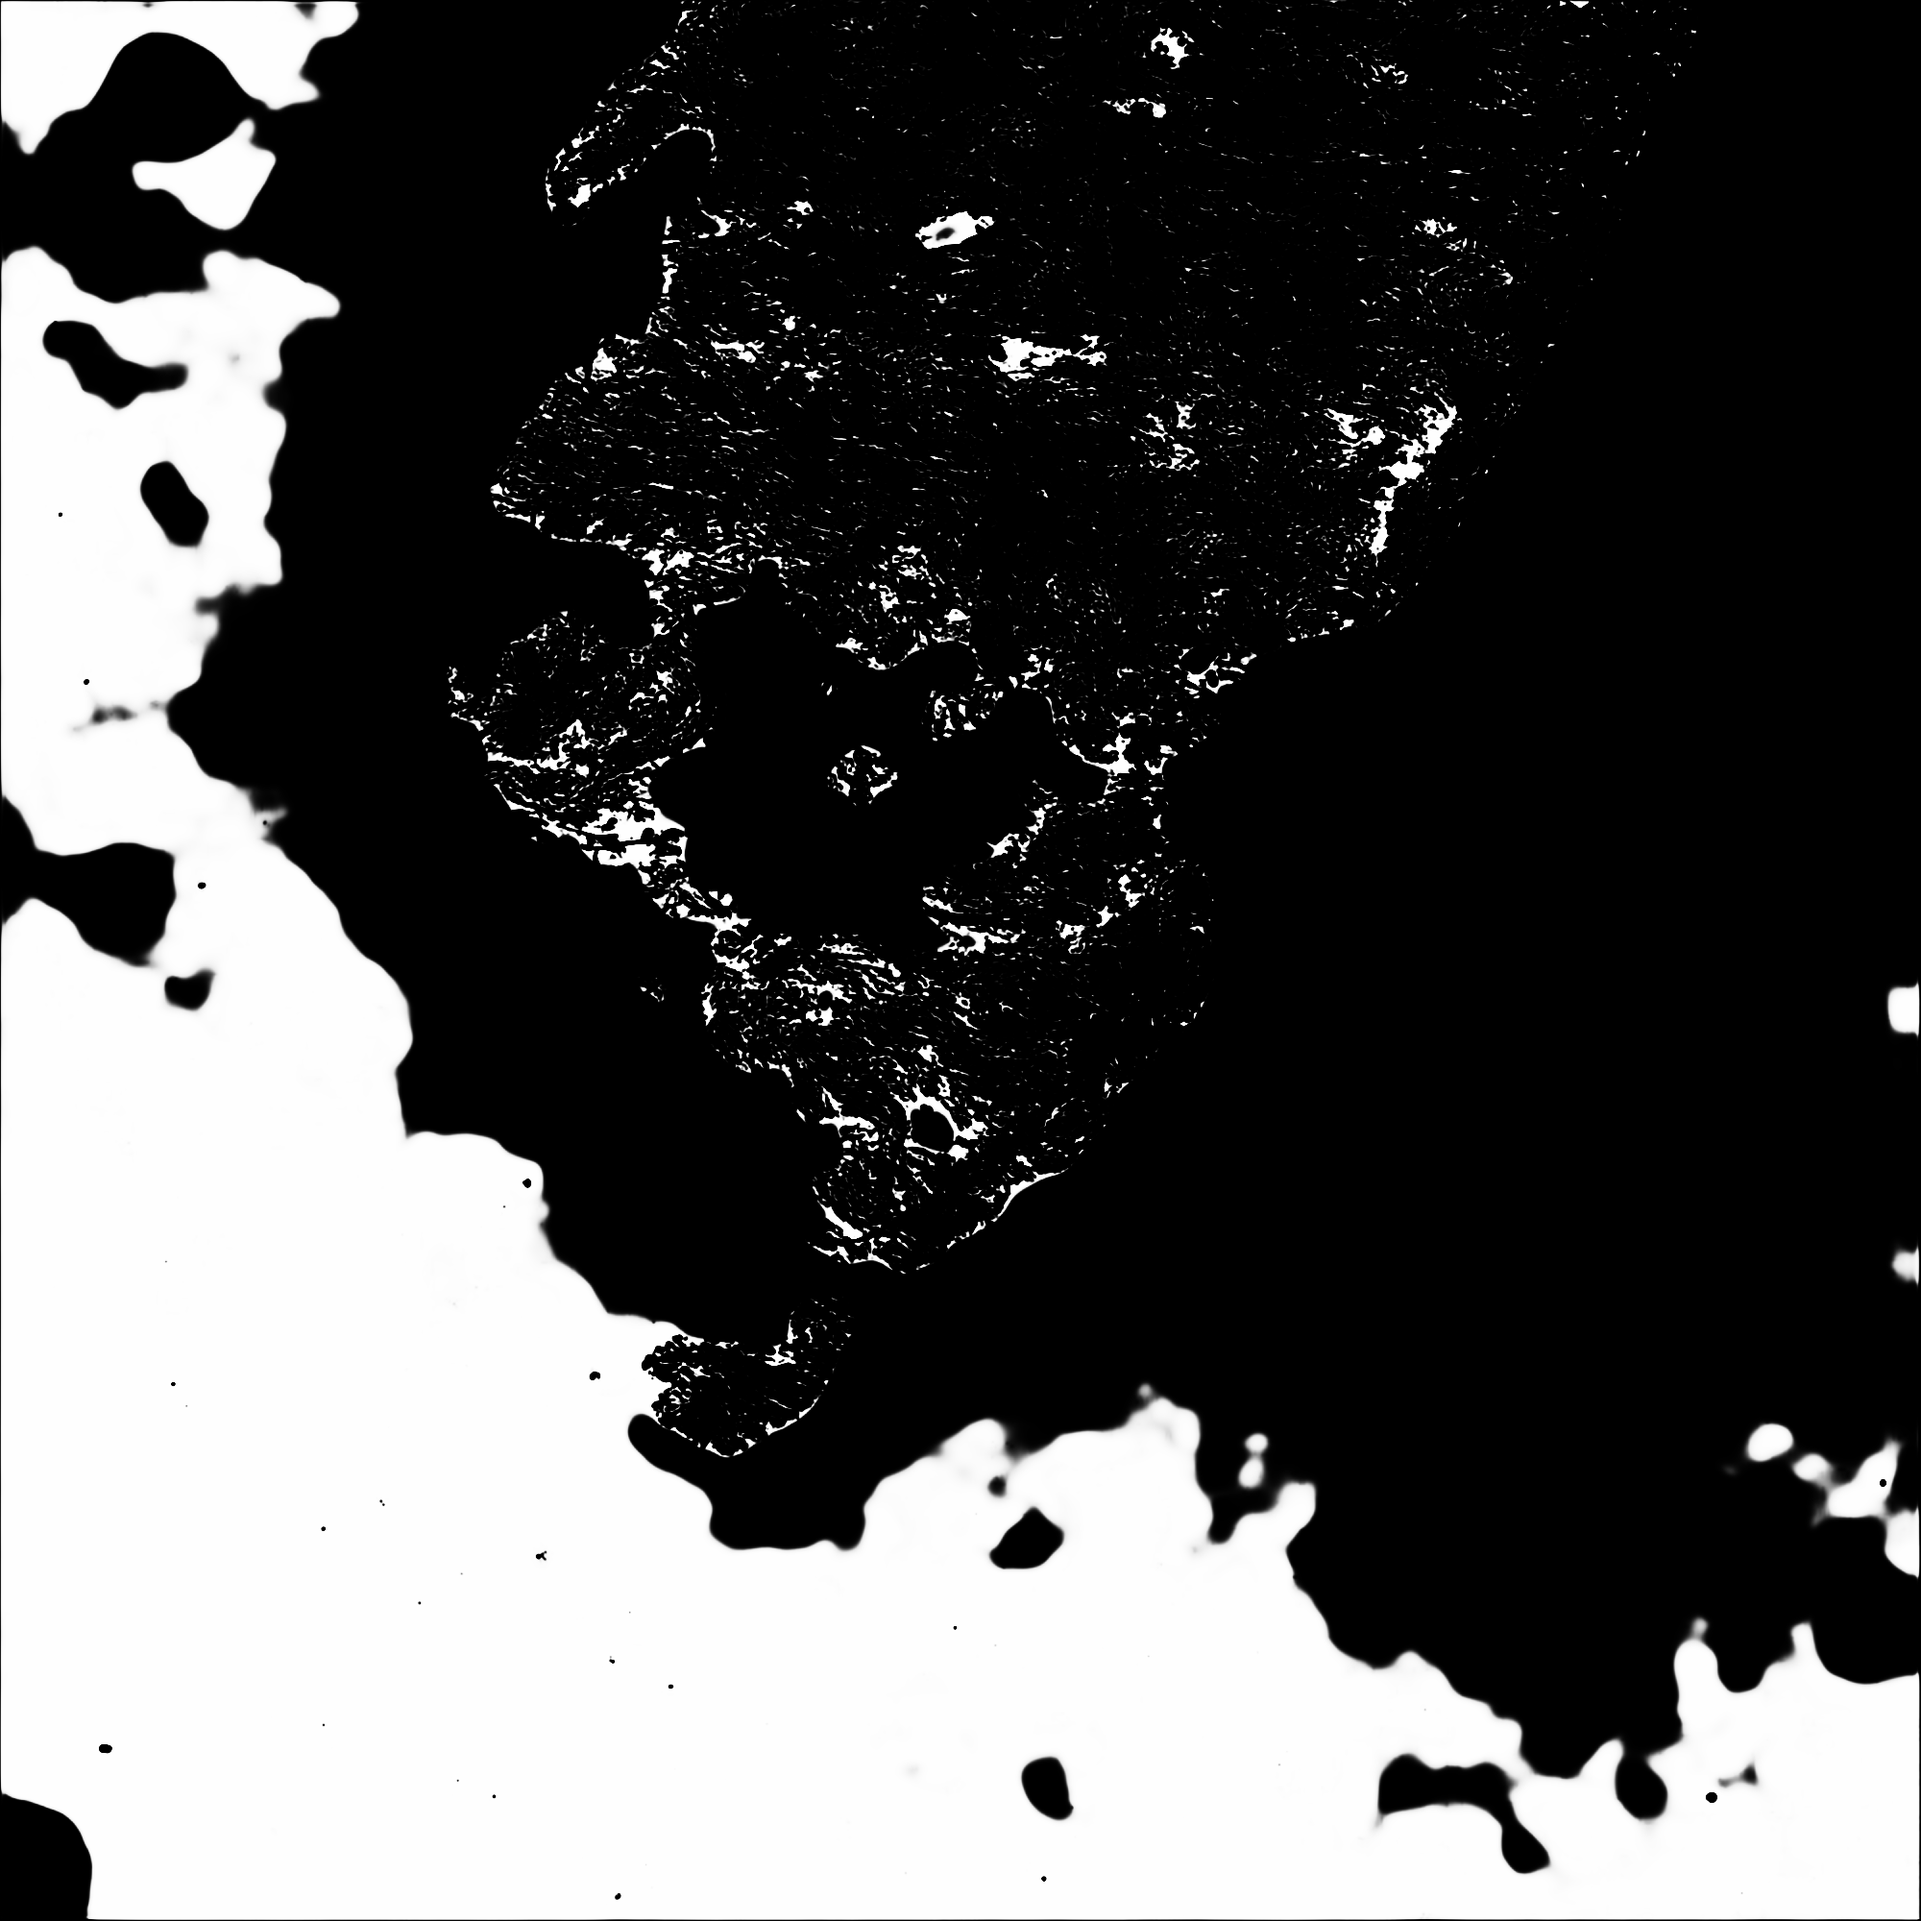
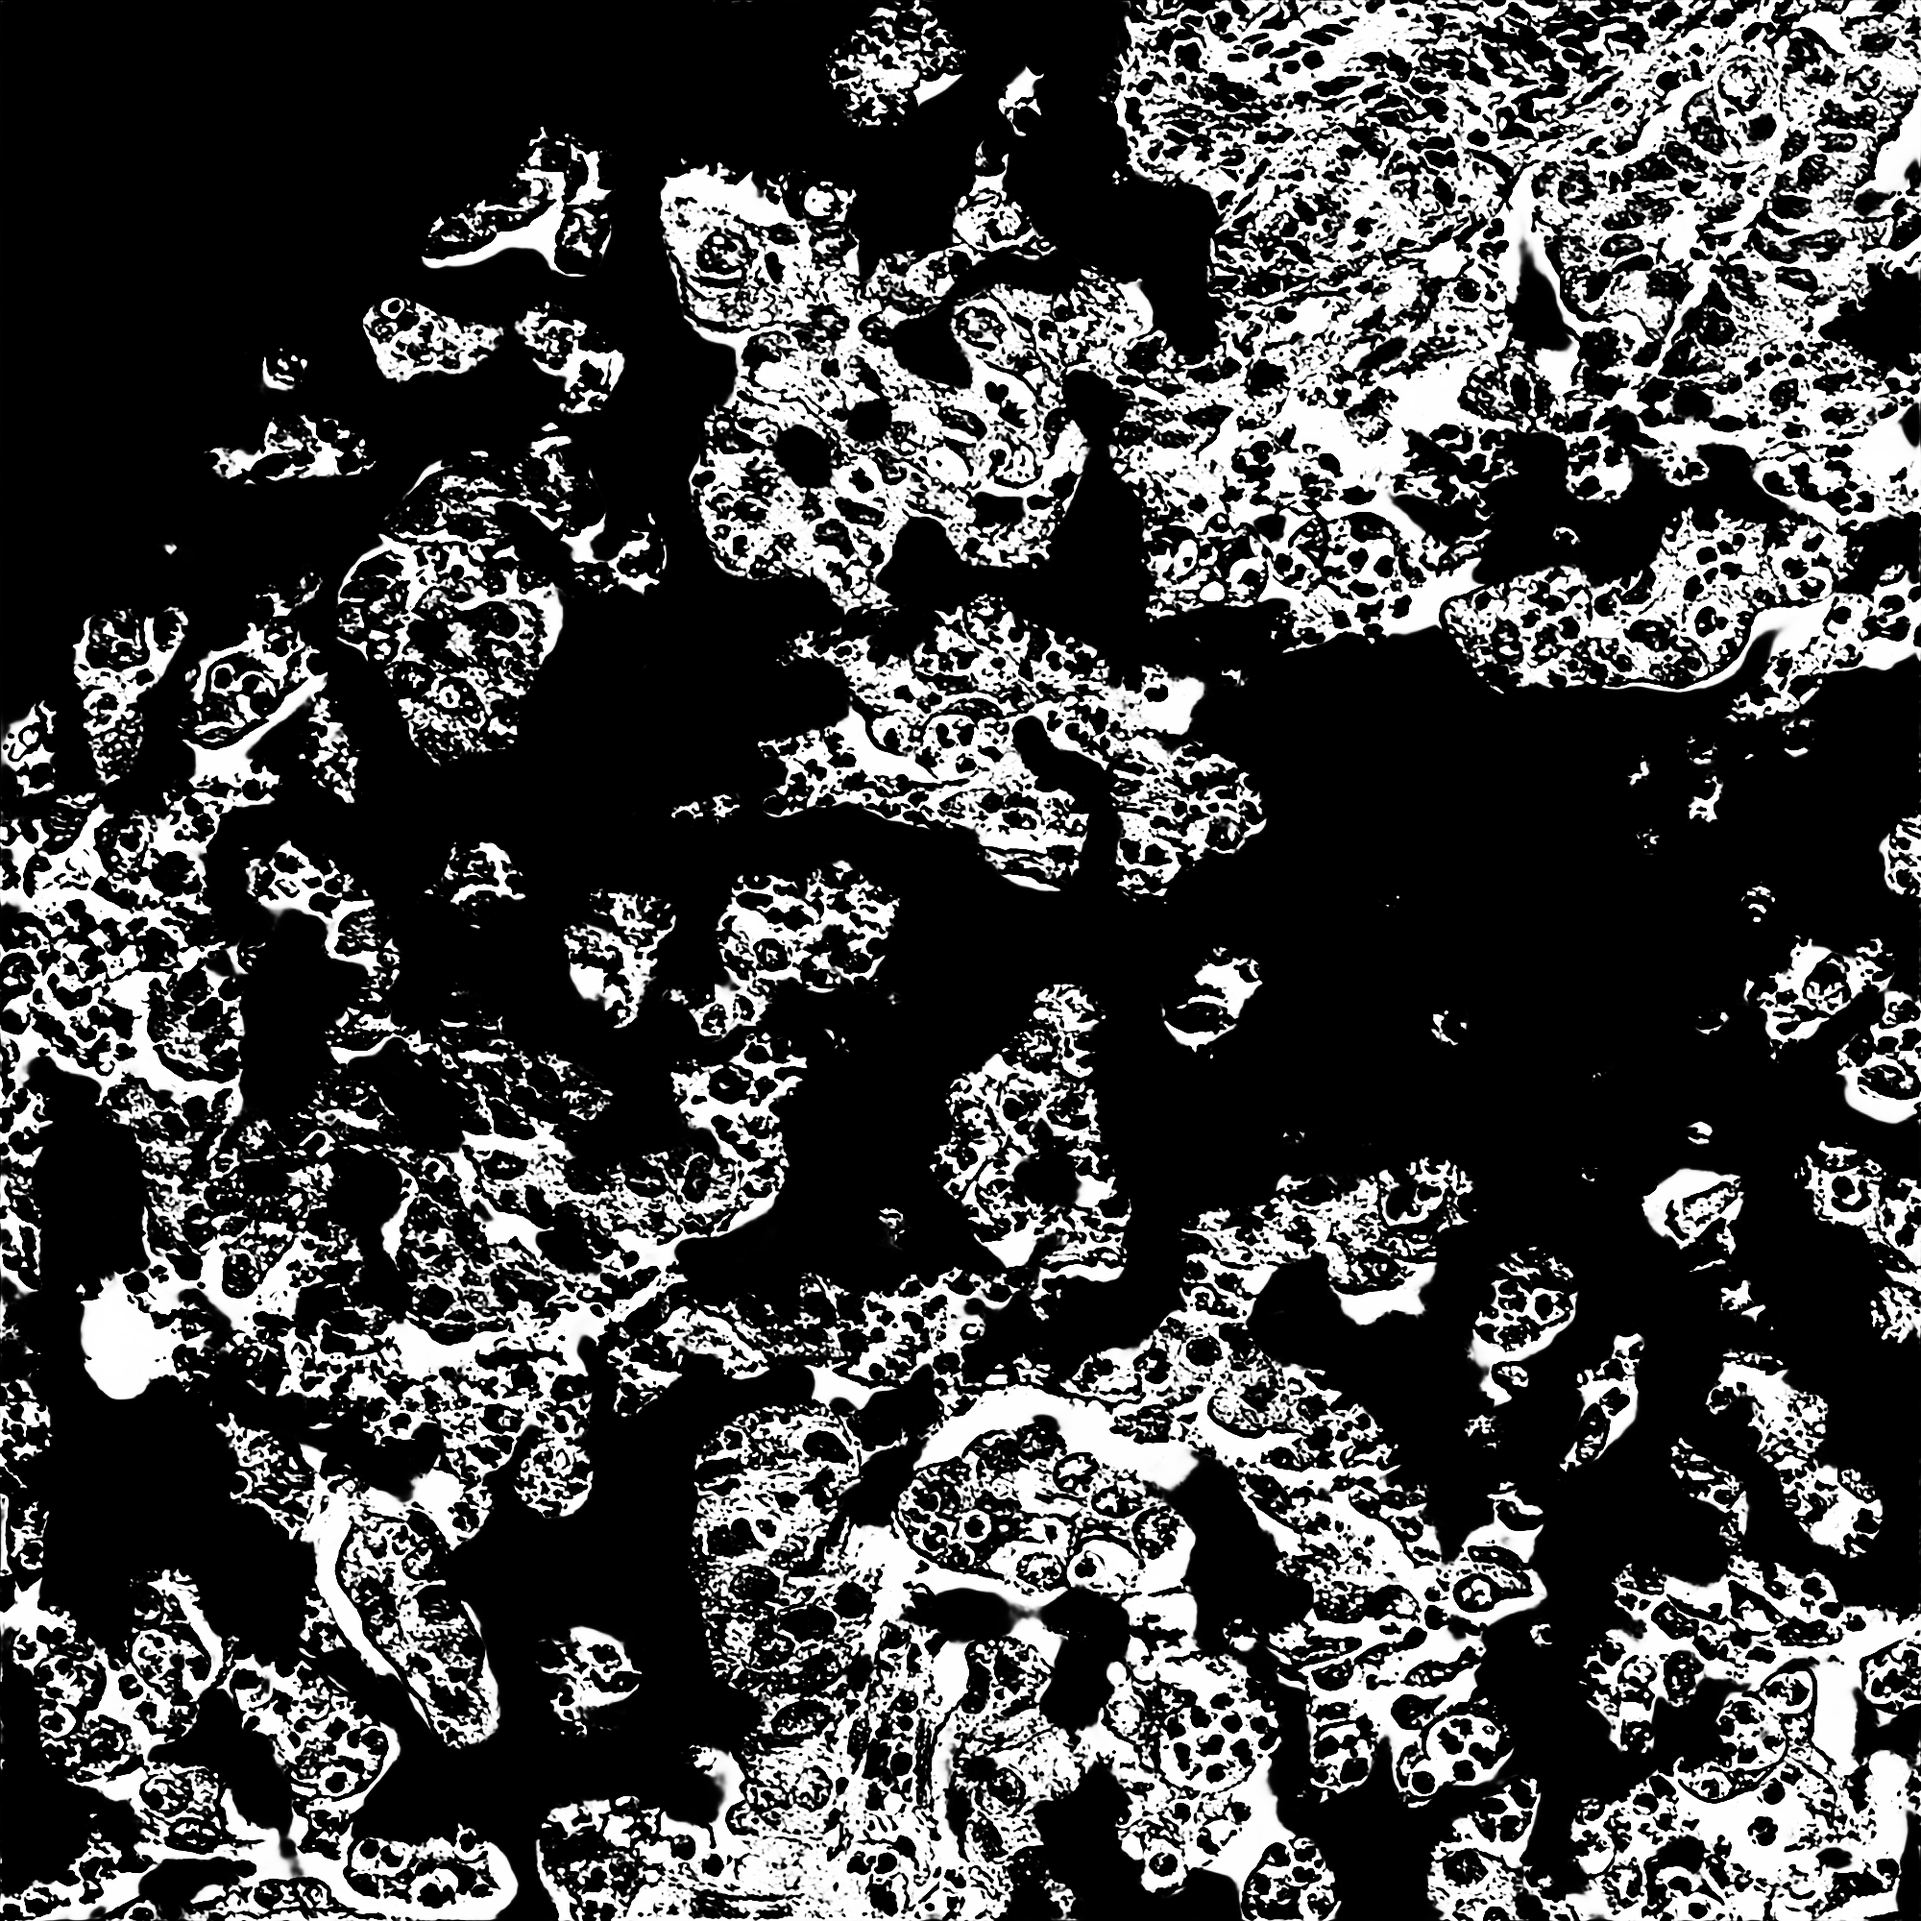
minor changes on the mask cleaning

diff --git a/libs/feat_extraction_wsi.m b/libs/feat_extraction_wsi.m
@@ -14,13 +14,92 @@ if folder_type == "tile_type"
     qualityredChannelLim = quality.redChannelLim;
     qualityblurLimit = quality.blurLimit;
     qualityimgarea = quality.imgarea;
+    parfor nn=1:numFiles
+        i= indx(nn);
+        [~,imgName]=fileparts(imgList.Value{i});
+        outputFolder=[folder_savepath 'dataset_output/' imgName];
+        maskFolder=[outputFolder '/png_binmask/png_cellmask/'];
+        maskEFolder=[outputFolder '/png_binmask/png_cellepimask/'];
+        maskSFolder=[outputFolder '/png_binmask/png_cellstromask/'];
+        maskBFolder=[outputFolder '/png_binmask/png_cellbundmask/'];
+        ESmaskFolder=[outputFolder '/png_binmask/png_epithmask/'];
+        SSmaskFolder=[outputFolder '/png_binmask/png_stromask/'];
+        EBmaskFolder=[outputFolder '/png_binmask/png_boundaryepistromask/'];
+        featlocFolder=[outputFolder '/TIL_features/'];
+        disp(outputFolder)
+        mkdir(outputFolder);
+        mkdir(maskFolder);
+        mkdir(maskEFolder);
+        mkdir(maskSFolder);
+        mkdir(maskBFolder);
+        mkdir(ESmaskFolder);
+        mkdir(SSmaskFolder);
+        mkdir(EBmaskFolder);
+        mkdir(featlocFolder);
+        featFile=sprintf('%s/%s.mat',featlocFolder,imgName);
+        maskFile=sprintf('%s/%s.png',maskFolder,imgName);
+        maskEFile=sprintf('%s/%s.png',maskEFolder,imgName);
+        maskSFile=sprintf('%s/%s.png',maskSFolder,imgName);
+        maskBFile=sprintf('%s/%s.png',maskBFolder,imgName);
+        ESmaskFile=sprintf('%s/%s.png',ESmaskFolder,imgName);
+        SSmaskFile=sprintf('%s/%s.png',SSmaskFolder,imgName);
+        EBmaskFile=sprintf('%s/%s.png',EBmaskFolder,imgName);
+        % load the image
+        curTile = imread([folder_matpatches imgList.Value{i}]);
+        % load the epistroma mask
+        curTile_ESmask = imread([folder_pyepistroma imgList.Value{i}]);
+        % load the nuclei mask, if not saved, calculate
+        curTile_Nmask = imread([folder_matcellmask imgList.Value{i}]);
+        % get_cleanMask_v2
+
+        % generate the nuclei mask
+        if (getSaturationMetric(curTile)>qualitysaturationLim && ...
+                getRedMetric(curTile)>qualityredChannelLim && ...
+                blurMetric(curTile)>qualityblurLimit && ...
+                getAreaTissue(curTile)>qualityimgarea)
+            if exist(featFile,'file')~=2
+                parsave(featFile, placeholder);
+                % Check if Cell mask and Epistroma mask have same quantity
+                if size(curTile_ESmask_struct) == size(curTile_Nmask_struct)
+                    fprintf('Processing tile %s_%d\n',imgName,i);
+                    curTile_ESmask = curTile_ESmask_struct(:,:,i)'; % For a single mask
+                    curTile_Nmask = curTile_Nmask_struct(:,:,i)'; % For a single mask
+                    [nucleiCentroids,isLymphocyte,nucFeatures,denFeat,spaFeat,ctxFeat,nucleiCentroids_stro,...
+                        isLymphocyte_stro,nucFeatures_stro,denFeat_stro,spaFeat_stro,ctxFeat_stro,nucleiCentroids_epi,isLymphocyte_epi,...
+                        nucFeatures_epi,denFeat_epi,spaFeat_epi,ctxFeat_epi,nucleiCentroids_bund,isLymphocyte_bund,nucFeatures_bund,...
+                        denFeat_bund,spaFeat_bund,ctxFeat_bund] = get_mixTIL(...
+                        curTile,curTile_ESmask,curTile_Nmask,maskFile,maskEFile,...
+                        maskSFile,maskBFile,ESmaskFile,SSmaskFile,EBmaskFile,lympModel);
+                    parsave_cellfeat_mixtil(featFile,nucleiCentroids,isLymphocyte,nucFeatures,denFeat,spaFeat,ctxFeat,nucleiCentroids_stro,...
+                        isLymphocyte_stro,nucFeatures_stro,denFeat_stro,spaFeat_stro,ctxFeat_stro,nucleiCentroids_epi,isLymphocyte_epi,...
+                        nucFeatures_epi,denFeat_epi,spaFeat_epi,ctxFeat_epi,nucleiCentroids_bund,isLymphocyte_bund,nucFeatures_bund,...
+                        denFeat_bund,spaFeat_bund,ctxFeat_bund);
+                else
+                    filePh_error = fopen([folder_savepath 'errorlist_patches.txt'],'a');
+                    fprintf(filePh_error,'Mismatch cell and epistroma mask %s_%d\n',imgName,indx2(i));
+                    fclose(filePh_error);
+                    continue
+                end
+            else
+                %disp('mat tile already exists')
+                continue
+            end
+        end
+    end
 elseif folder_type == "folder_type"
     disp('over here')
+    
 else
     disp('no fodler type')
 end
 
 
+
+
+
+
+
+%%
 imgList=dir([folder_matpatches '*.png']);
 %imgList=dir([folder_matpatches '*.mat']);
 indx = randperm(numel(imgList));

diff --git a/libs/get_cleanMask_v2.m b/libs/get_cleanMask_v2.m
@@ -1,0 +1,12 @@
+function [M] = get_cleanMask_v2(I,M,maskFile)
+    M = imbinarize(M);
+    M = logical(M);
+    M = bwareafilt(M,[30 300]);
+    M = bwareaopen(M,10);
+    M1 = getWatershedMask(I,true,6,10);
+    M1 = logical(M1);
+    M1 = bwareafilt(M1,[30 300]);
+    M1 = bwareaopen(M1,10);
+    M = M+M1;
+    imwrite(M,maskFile);
+end
